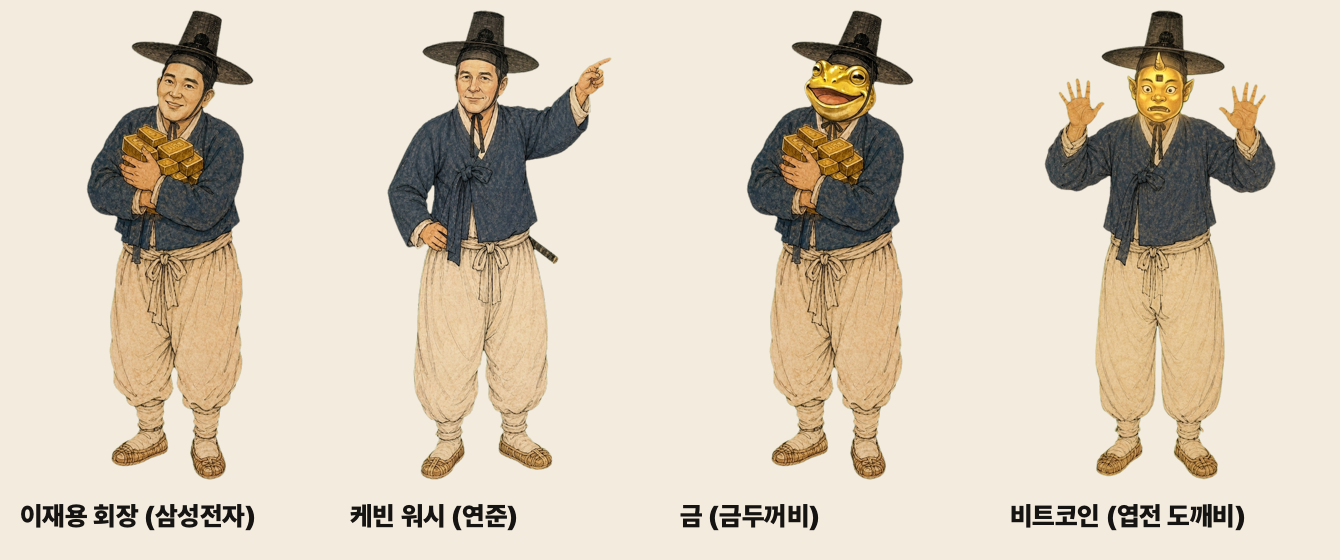
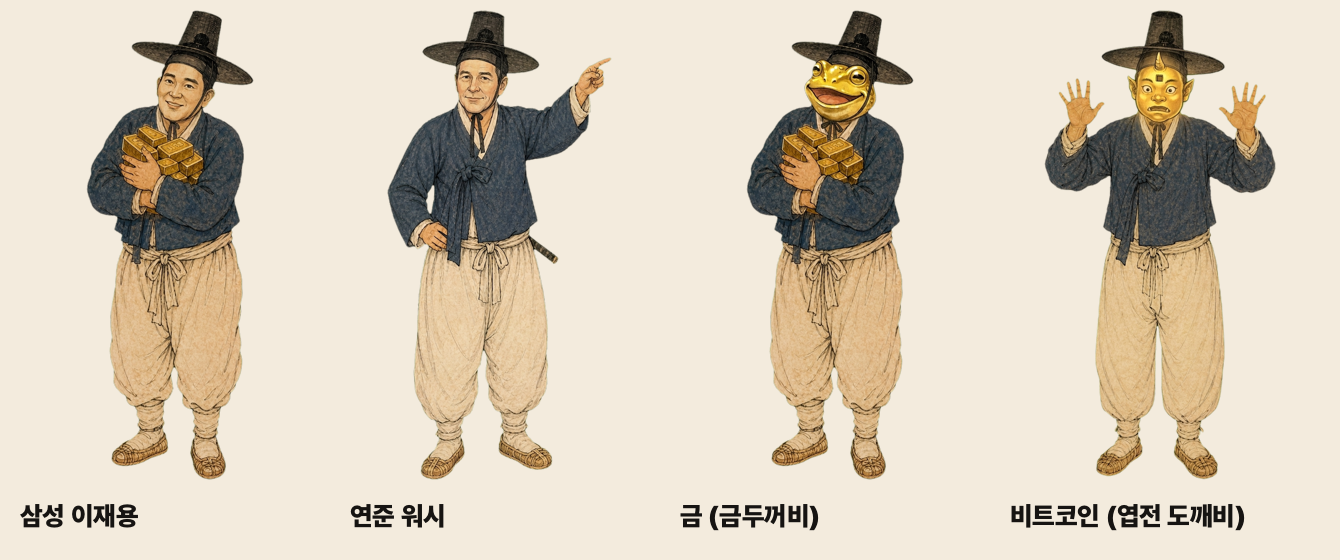
인물 썸네일: 회사 + 이름을 바로, 가장 크게 (삼성 이재용 형식) + 표기 목록 (#220)
Claude-Session: https://claude.ai/code/session_01HNJTaMMcXgMjQhv2iW7WGc

Changed region(s): [[0.0, 0.8804, 0.2142, 0.9411], [0.3366, 0.8804, 0.3978, 0.9411], [0.2448, 0.8804, 0.306, 0.9411]]

diff --git a/content/head_swap.py b/content/head_swap.py
@@ -4,6 +4,7 @@
 - 담당: Gemini 이미지 모델(나노바나나) → 안 되면 GPT Image 2 편집. 결과는 초록을 지워 투명 PNG.
 - 규칙(DECISIONS 2026-10-05): 조선 화풍 캐리커처만, 사실에 맞는 중립·긍정 표정, 가짜 말·보증·비하 금지, 'AI 일러스트' 표시,
   로고 금지. 금·코인은 마스코트.
+- 이름표·썸네일은 "회사 + 이름"을 바로 (config/people.yaml, 대표 지시 2026-10-05: 삼성 이재용, SK 최태원, 엔비디아 젠슨황).
 결과: reports/쇼츠-시안/머리바꾸기/<id>.png + 0-한눈에.png + 썸네일 시안
 """
 from __future__ import annotations
@@ -29,10 +30,10 @@ COMMON = ("Edit this image: keep the exact same Joseon ink-and-wash painting sty
 RULES = (" It must look like a hand-painted Joseon-era caricature illustration, clearly not a photo. Friendly, "
          "respectful, not mocking. No text, no logos, no speech bubbles.")
 HEADS = [
-    {"id": "lee-jaeyong", "base": "hero_happy", "label": "이재용 회장 (삼성전자)",
+    {"id": "lee-jaeyong", "base": "hero_happy", "label": "삼성 이재용",
      "prompt": "New head: a recognizable but gently stylized caricature of Lee Jae-yong, chairman of Samsung "
                "Electronics, smiling warmly, short neat hair under the gat."},
-    {"id": "kevin-warsh", "base": "hero_point", "label": "케빈 워시 (연준)",
+    {"id": "kevin-warsh", "base": "hero_point", "label": "연준 워시",
      "prompt": "New head: a recognizable but gently stylized caricature of Kevin Warsh, the American economist and "
                "central banker, calm and thoughtful expression, slight smile."},
     {"id": "gold-toad", "base": "hero_happy", "label": "금 (금두꺼비)",
@@ -136,7 +137,7 @@ def sheet(log: list[str]) -> None:
         bg.alpha_composite(fig, (int(bg.width * 0.45), bg.height - fig.height))
         tmp = OUT / "_lee-bg.png"
         bg.convert("RGB").save(tmp)
-        thumb(tmp, ["삼성전자", "회장님이", "웃은", "이유는?"], "", OUT / "썸네일-이재용.png", panel="먹", side="left",
+        thumb(tmp, ["삼성", "이재용", "웃은 이유는?"], ["삼성", "이재용"], OUT / "썸네일-이재용.png", panel="먹", side="left",
               focus=0.8)
         tmp.unlink()
         t = Image.open(OUT / "썸네일-이재용.png").convert("RGB")  # 'AI 일러스트' 표시: 그림 쪽 오른쪽 아래(잘리지 않게)

diff --git a/content/hook_thumb.py b/content/hook_thumb.py
@@ -56,7 +56,7 @@ def _seal(c: Image.Image, x: int, y: int, s: int, bg, fg) -> None:
     d.text((x + (s - d.textlength("억", font=f)) / 2, y + s * 0.12), "억", font=f, fill=fg)
 
 
-def make(art: Path, lines: list[str], accent: str, out: Path, seed: str = "", panel: str | None = None,
+def make(art: Path, lines: list[str], accent: str | list[str], out: Path, seed: str = "", panel: str | None = None,
          side: str | None = None, focus: float = 0.5, prev: tuple[str, str] | None = None) -> tuple[str, str]:
     """썸네일 1장. 돌려주는 값 = 쓴 (판 색, 위치) — 다음 글이 겹치지 않게 넘겨 주면 된다."""
     p, s = style_for(seed or out.stem, prev)
@@ -68,22 +68,23 @@ def make(art: Path, lines: list[str], accent: str, out: Path, seed: str = "", pa
     px, tx = (0, W - pw) if side == "right" else (pw, 0)
     c.paste(pic, (px, 0))
     d = ImageDraw.Draw(c)
-    # 글자 크기: 줄마다 판 폭(여백 빼고)에 꽉 차게, 최대 170. 짧은 줄이 튀지 않게 가장 작은 줄의 1.35배까지
+    # 글자 크기: 줄마다 판 폭(여백 빼고)에 꽉 차게, 최대 170. 짧은 줄이 너무 튀지 않게 가장 작은 줄의 1.7배까지
     def fit(l: str) -> int:
         size = 170
         while size > 60 and d.textlength(l, font=ImageFont.truetype(str(FONT), size)) > pw - 64:
             size -= 2
         return size
     sizes = [fit(l) for l in lines]
-    sizes = [min(z, int(min(sizes) * 1.35)) for z in sizes]
+    sizes = [min(z, int(min(sizes) * 1.7)) for z in sizes]
     gap = 14
     y = (W - sum(int(z * 1.08) for z in sizes) - gap * (len(lines) - 1)) // 2 - 40
     for l, z in zip(lines, sizes):
         f = ImageFont.truetype(str(FONT), z)
         x = tx + 32
-        if accent and accent in l:
-            a, b = l.split(accent, 1)
-            for part, col in ((a, fg), (accent, ac), (b, fg)):
+        acc = next((a for a in ([accent] if isinstance(accent, str) else accent) if a and a in l), "")
+        if acc:
+            a, b = l.split(acc, 1)
+            for part, col in ((a, fg), (acc, ac), (b, fg)):
                 d.text((x, y), part, font=f, fill=col)
                 x += d.textlength(part, font=f)
         else:

diff --git a/DECISIONS.md b/DECISIONS.md
@@ -153,6 +153,7 @@
 - **Perplexity 뺌, 취재는 Claude + Gemini, Grok 가입 (2026-10-05).** 대표 결정. Perplexity만 할 수 있는 일이 없음(웹 검색·출처는 Claude 웹 검색과 Gemini 구글 검색 연동으로 가능). 역할 재배정: **취재 메모(배경·기관 전망·일정, 출처 링크) = Claude 웹 검색**, **사실 대조 = Gemini 구글 검색 연동**(쓰는 회사와 검사하는 회사가 다름 원칙 유지), **유튜브·영상 요약 = Gemini**(다른 모델은 유튜브 링크를 못 읽음), **X 화제·투자자 분위기 = Grok**(대표 가입, `XAI_API_KEY`). Claude 웹 검색 추가 비용 1편 약 50원. Gemini는 무료 한도로 시작. `reports/AI-조직도-2026-10-05.md`, `docs/운영자-안내-AI-키.md` 갱신. (14장)
 - **Gemini는 일단 역할 없이 대기, 사실 대조는 GPT로 (2026-10-05).** 대표 결정. 연결 점검에서 Gemini가 게임 뉴스 사이트를 출처로 쓰는 등 검사 담당으로 불안. → **사실 대조 = GPT(OpenAI, 웹 검색)**: 쓰는 회사(Anthropic)와 검사하는 회사(OpenAI)가 다름 원칙 유지, 주요 언론사·공식 기관 출처만 인정하는 규칙을 붙임. 초보 독자 검토도 같은 GPT 호출에서 함께. 유튜브 영상 요약은 당분간 안 씀(다른 모델은 못 함). Gemini(`GEMINI_API_KEY`는 그대로 둠)는 나중에 **AI 가공 이미지**(그림 고치기·합성, 나노바나나)가 필요할 때 다시 씀. (14장)
 - **실존 인물은 조선 화풍 캐리커처로만 (2026-10-05, 앞선 '실존 인물 얼굴 금지'를 바꿈).** 대표 결정: 글 주인공(기업 회장·연준 의장 등)의 얼굴을 억선생 몸에 갈아 끼우는 '머리 바꾸기'를 쓴다. 규칙: ① 사진처럼 보이지 않는 조선 화풍·민화풍 캐리커처만(딥페이크 금지) ② 그날 뉴스 사실에 맞는 중립·긍정 표정(웃음·놀람·고민), 비하·망신 금지 ③ 하지 않은 말(말풍선)·보증('○○도 추천') 금지 ④ 'AI 일러스트' 표시 ⑤ 경제 인물 위주, 정치인은 꼭 필요할 때만(광고 단가·정치 분류 위험), 선거 기간 정치인 금지 ⑥ 회사 로고는 계속 안 그림. 금·코인·통화는 마스코트(금두꺼비·엽전 도깨비 등). 머리 바꾸기 담당 = Gemini(나노바나나), 안 되면 GPT Image. 위험(퍼블리시티권·명예훼손·플랫폼 합성물 규정)을 알고 정한 결정. (13장)
+- **인물 글 썸네일은 "회사 + 이름"을 바로, 가장 크게 (2026-10-05).** 대표 지시: 예) 삼성 이재용, SK 최태원, 엔비디아 젠슨황. 썸네일 판 첫 두 줄 = 회사 / 이름(강조색, 가장 크게), 그 아래 훅 한 줄. 직책 대신 회사명. 표기 목록 `config/people.yaml`(직책·소속은 글 쓰는 날 취재에서 다시 확인). `content/hook_thumb.py`는 강조 여러 개를 받게 고침. (13장)
 ---
 
 ## 미결정 (결정되면 위로 옮긴다)
